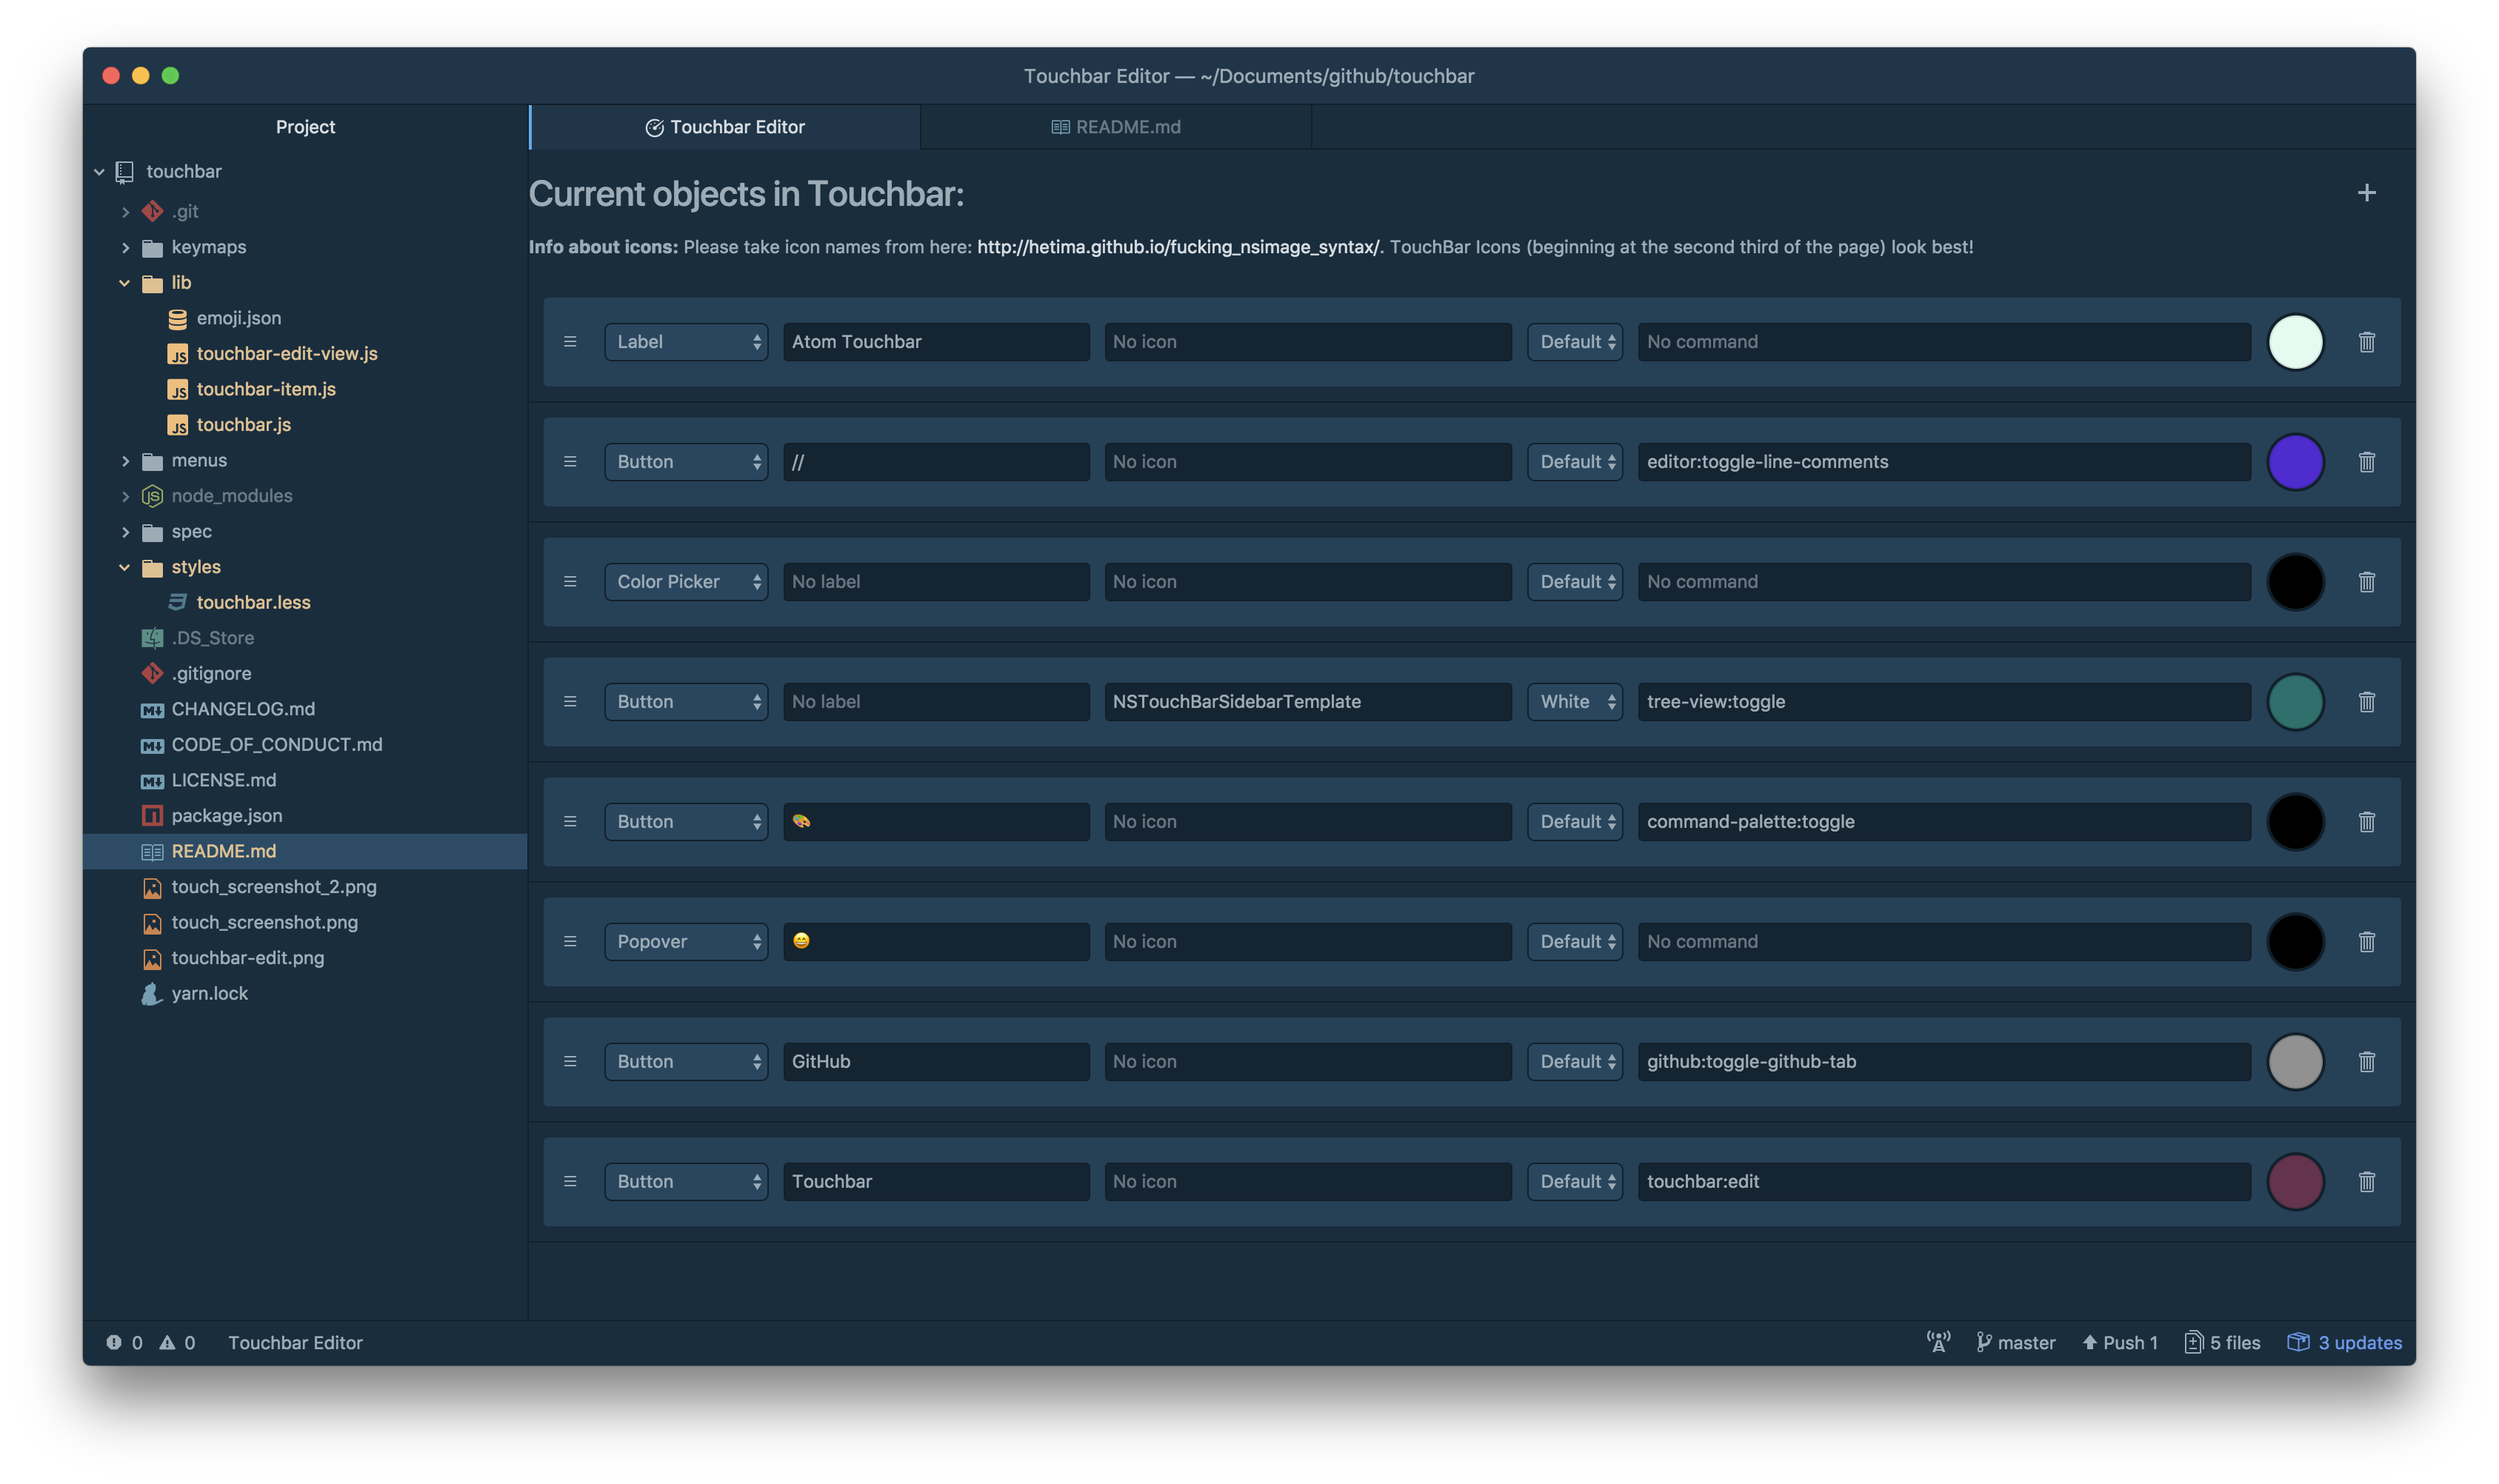
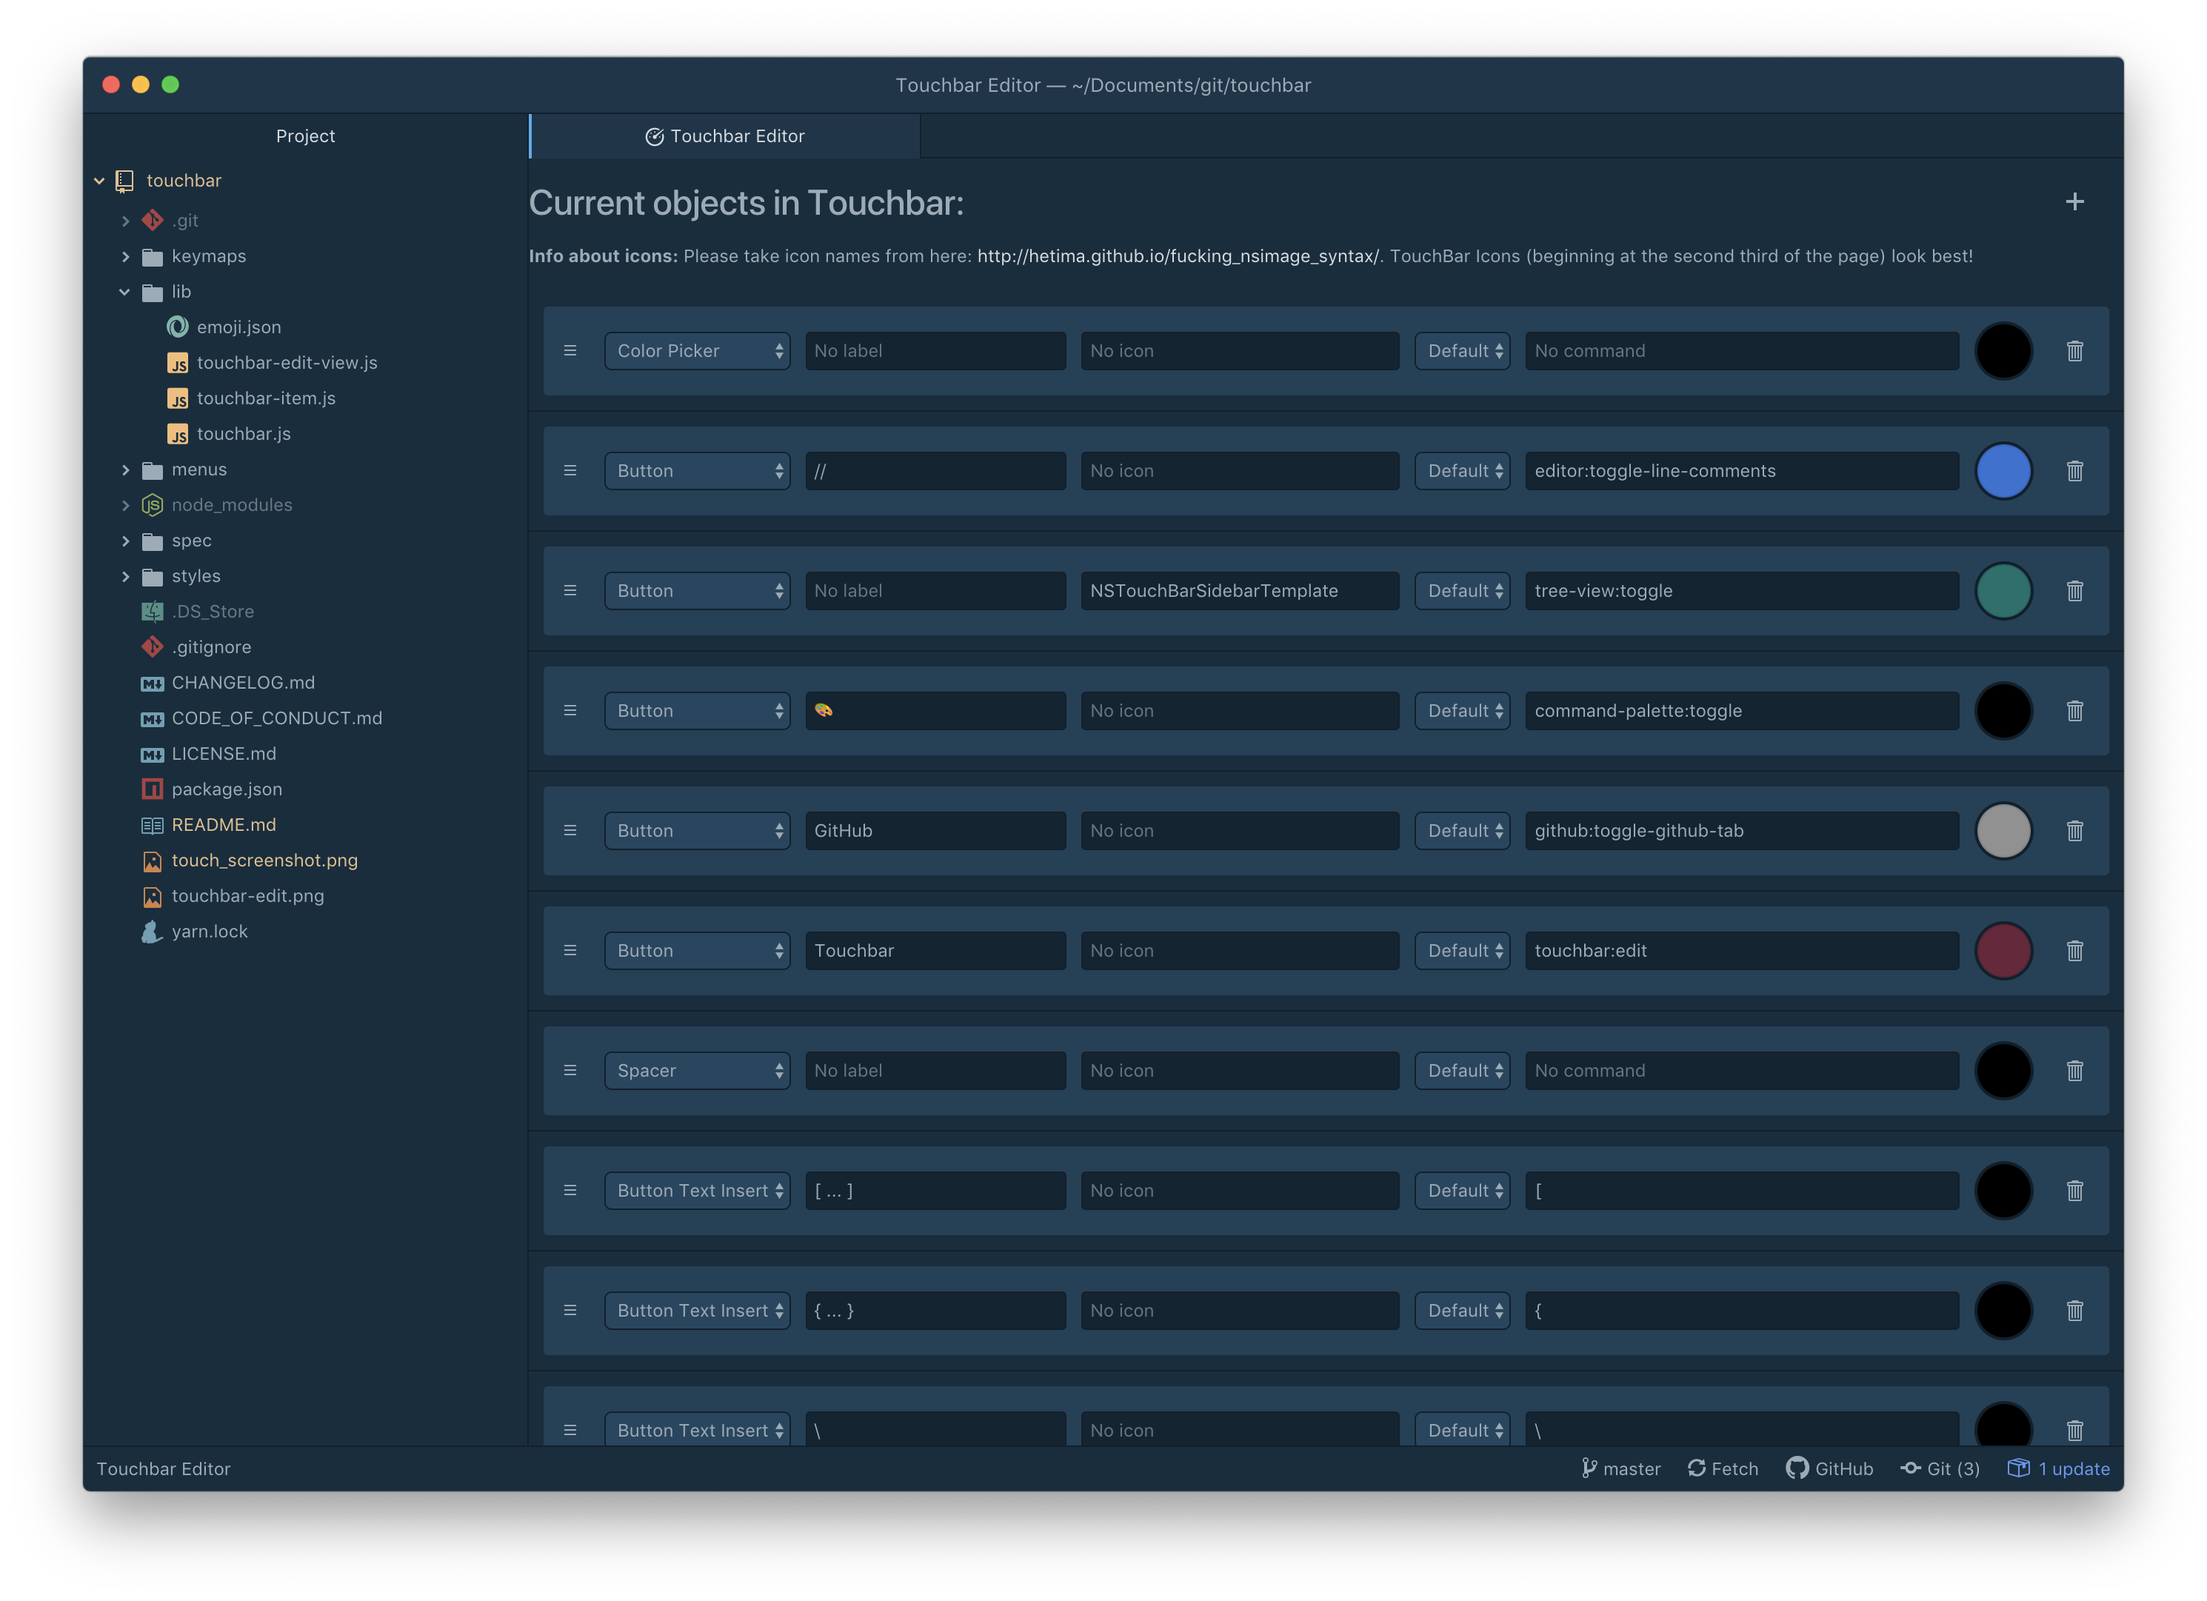
update documentation

diff --git a/README.md b/README.md
@@ -17,6 +17,7 @@ Press `ctrl-alt-o` to toggle touchbar
 - Emoji Picker
 - Edit Touchbar
 - Set Icons
+- Insert Text (e.g. `{` or `[`). Please use `Button Text Insert` and insert your desired text in the command input
 
 ![touchbar screenshot](touch_screenshot.png)
 
@@ -34,5 +35,5 @@ Go to `Settings -> Packages -> touchbar` and update the `Elements` input. This i
 Example:
 
 ```js
-[{"type":"label","name":"Config 1524399902796","label":"Atom Touchbar","color":"#e0fcf0"},{"name":"comment-button","type":"button","label":"//","command":"editor:toggle-line-comments","color":"#5712d6","icon":"","iconColor":"default"},{"name":"color-picker","type":"color-picker"},{"name":"spacer","type":"button","size":"small","label":"","command":"tree-view:toggle","color":"#00716c","icon":"NSTouchBarSidebarTemplate","iconColor":"white"},{"name":"toggle-command-palette","type":"button","label":"🎨","command":"command-palette:toggle"},{"type":"popover","label":"😄","elements":[{"name":"emoji-scrubber","type":"scrubber","label":"😄","items":"emojis"}],"command":"","icon":""},{"name":"toggle-github","type":"button","label":"GitHub","color":"#919191","command":"github:toggle-github-tab"},{"name":"edit-touchbar","type":"button","label":"Touchbar","command":"touchbar:edit","color":"#6b2f4f"}{"type":"button-insert","name":"Config 1545385189675","label":"{","command":"{"},{"type":"button-insert","name":"Config 1545385227249","label":"}","command":"}"}]
+[{"name":"color-picker","type":"color-picker"},{"name":"comment-button","type":"button","label":"//","command":"editor:toggle-line-comments","color":"#316ed4","icon":"","iconColor":"default"},{"name":"spacer","type":"button","size":"small","label":"","command":"tree-view:toggle","color":"#00716c","icon":"NSTouchBarSidebarTemplate","iconColor":"white"},{"name":"toggle-command-palette","type":"button","label":"🎨","command":"command-palette:toggle","iconColor":"default"},{"name":"toggle-github","type":"button","label":"GitHub","color":"#919191","command":"github:toggle-github-tab","icon":"","iconColor":"default"},{"name":"edit-touchbar","type":"button","label":"Touchbar","command":"touchbar:edit","color":"#6c233b"},{"type":"spacer","size":"flexible","name":"Config 1547128866278"},{"type":"button-insert","name":"Config 1545387178508","label":"[ ... ]","command":"[","icon":""},{"type":"button-insert","name":"Config 1545387144391","label":"{ ... }","command":"{"},{"type":"button-insert","name":"Config 1545390215291","label":"\\","command":"\\"}]
 ```
